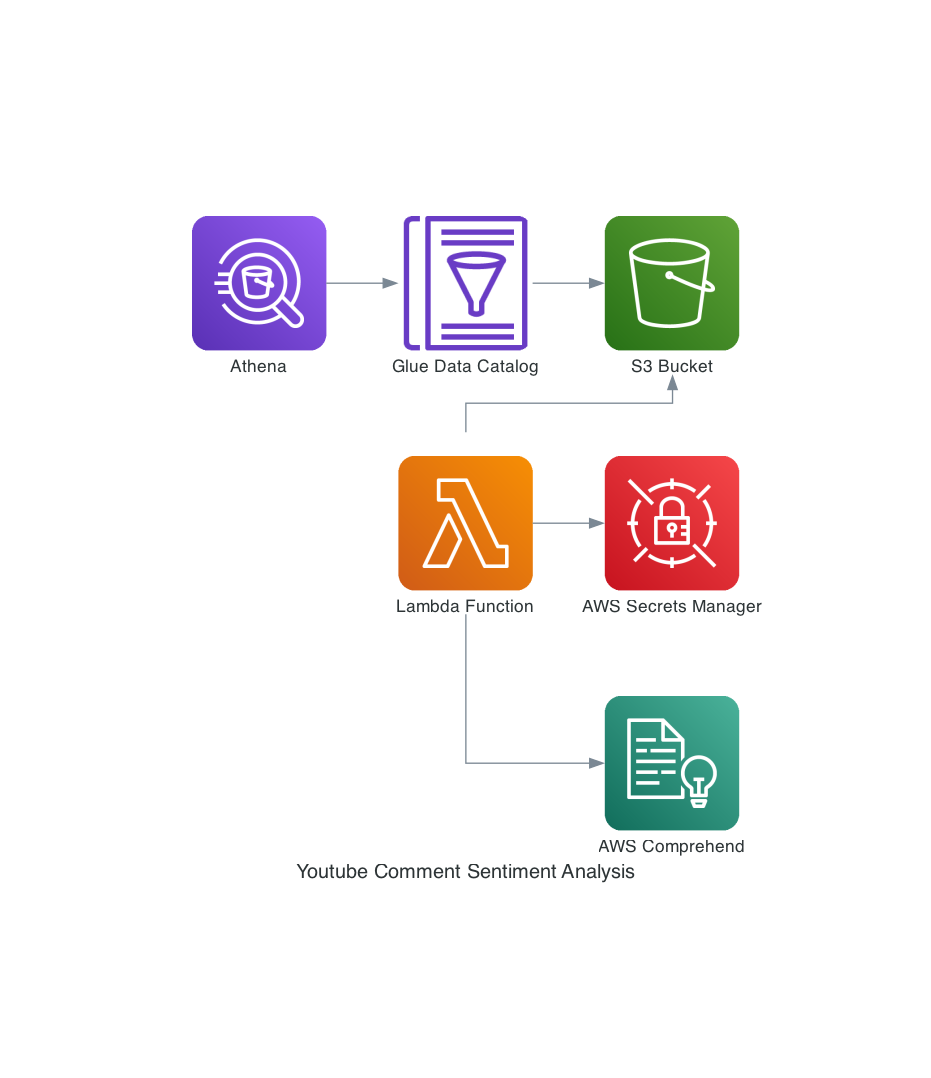
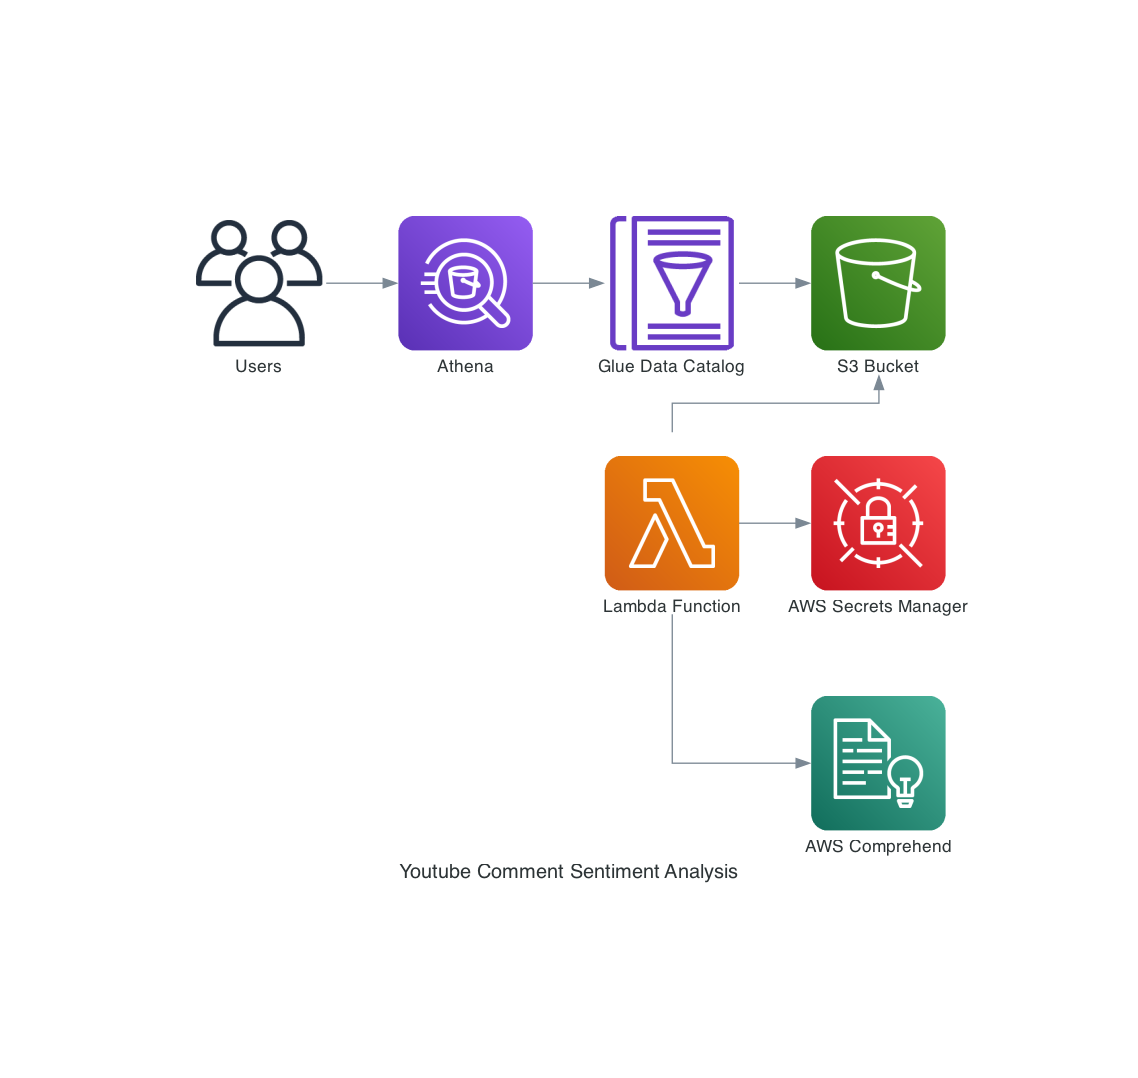
add application registry

Changed region(s): [[0.1557, 0.1837, 0.841, 0.5816], [0.3115, 0.6429, 0.841, 0.8265]]

diff --git a/utils/create_diagram.py b/utils/create_diagram.py
@@ -4,6 +4,7 @@ from diagrams.aws.compute import Lambda
 from diagrams.aws.ml import Comprehend
 from diagrams.aws.security import SecretsManager
 from diagrams.aws.storage import S3
+from diagrams.onprem.client import Users
 
 with Diagram(
     "Youtube Comment Sentiment Analysis", show=False, filename="img/architecture"
@@ -15,7 +16,8 @@ with Diagram(
     comprehend = Comprehend("AWS Comprehend")
     glue_data_catalog = GlueDataCatalog("Glue Data Catalog")
     athena = Athena("Athena")
+    users = Users("Users")
 
     # Relationships
     lambda_function >> [s3_bucket, comprehend, secrets_manager]
-    athena >> glue_data_catalog >> s3_bucket
+    users >> athena >> glue_data_catalog >> s3_bucket
